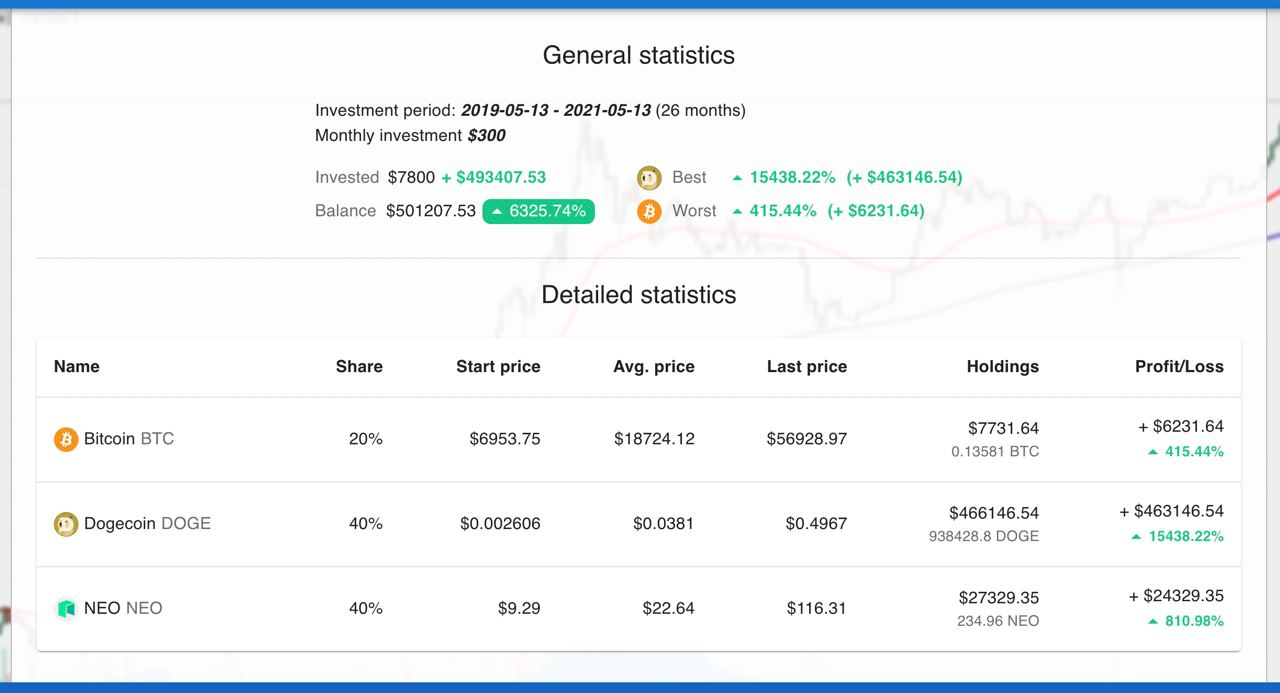
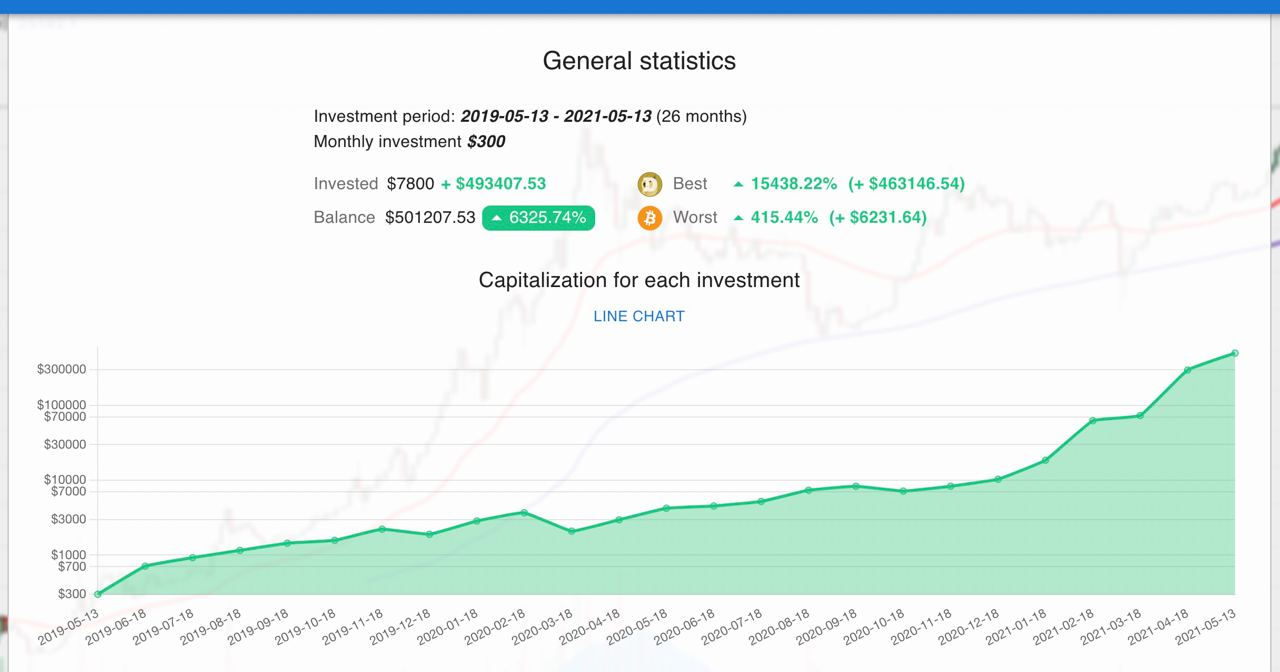
chartjs has been improved and code has been fixed

diff --git a/src/features/components/Chart.tsx b/src/features/components/Chart.tsx
@@ -1,0 +1,122 @@
+import { GET_LOSS_COLOR, GET_PROFIT_COLOR, LOSS_COLOR, PROFIT_COLOR } from '@cc/shared/const';
+import { Box, Button, Typography } from '@mui/material';
+import {
+  CategoryScale,
+  Chart as ChartJS,
+  Filler,
+  Legend,
+  LineElement,
+  LinearScale,
+  LogarithmicScale,
+  PointElement,
+  TimeSeriesScale,
+  Title,
+  Tooltip,
+  TooltipModel,
+} from 'chart.js';
+import 'chartjs-adapter-luxon';
+import { DateTime } from 'luxon';
+import { memo, useCallback, useState } from 'react';
+import { Line } from 'react-chartjs-2';
+import styles from '../styles/Chart.module.css';
+
+ChartJS.register(
+  LineElement,
+  CategoryScale,
+  LinearScale,
+  PointElement,
+  TimeSeriesScale,
+  LogarithmicScale,
+  Title,
+  Tooltip,
+  Legend,
+  Filler
+);
+
+interface IChartProps {
+  dollars: number[];
+  labels: number[];
+}
+
+export const Chart: React.FC<IChartProps> = memo(({ labels, dollars }) => {
+  const [isLogChart, setLogShart] = useState(false);
+
+  const firstBalance = dollars.at(0) || 0;
+  const lastBalance = dollars.at(-1) || 0;
+  const isPositiveBalance = firstBalance <= lastBalance;
+
+  const backgroundColor = isPositiveBalance ? GET_PROFIT_COLOR(0.4) : GET_LOSS_COLOR(0.4);
+  const lineColor = isPositiveBalance ? PROFIT_COLOR : LOSS_COLOR;
+
+  const onTooltipLabel = useCallback(function (this: TooltipModel<'line'>) {
+    const priceValue = this.dataPoints[0].formattedValue;
+
+    return `$${priceValue}`;
+  }, []);
+
+  const onClickButton = useCallback(() => {
+    setLogShart((prev) => !prev);
+  }, []);
+
+  return (
+    <>
+      <Box className={styles.headContainer}>
+        <Typography variant="h6" component="h2">
+          Capitalization for each investment
+        </Typography>
+
+        <Button variant="text" onClick={onClickButton}>{`${
+          isLogChart ? 'Line' : 'logarithmic'
+        } chart`}</Button>
+      </Box>
+
+      <Box width="100%">
+        <Line
+          height={300}
+          width="100%"
+          data={{
+            labels: labels.map((timestamp) =>
+              DateTime.fromMillis(timestamp).toFormat('yyyy-MM-dd')
+            ),
+            datasets: [
+              {
+                label: 'Total capitalization',
+                data: dollars,
+                tension: 0.1,
+                fill: true,
+                backgroundColor,
+                borderColor: lineColor,
+                hoverBackgroundColor: lineColor,
+                pointRadius: 3,
+                pointHoverBorderWidth: 5,
+              },
+            ],
+          }}
+          options={{
+            responsive: true,
+            maintainAspectRatio: false,
+            hover: { intersect: false, mode: 'nearest', axis: 'x' },
+            scales: {
+              x: { grid: { display: false } },
+              y: {
+                type: isLogChart ? 'logarithmic' : 'linear',
+                ticks: { callback: (value) => `$${value}` },
+              },
+            },
+            layout: { autoPadding: true },
+            plugins: {
+              tooltip: {
+                callbacks: { label: onTooltipLabel },
+                mode: 'nearest',
+                intersect: false,
+                axis: 'x',
+              },
+              colors: { enabled: true },
+              legend: { display: false },
+            },
+          }}
+        />
+      </Box>
+    </>
+  );
+});

diff --git a/src/entities/MainPage/components/ResultsDescription.tsx b/src/entities/MainPage/components/ResultsDescription.tsx
@@ -1,6 +1,7 @@
-import { Box, Chip, Container, Divider, Typography } from '@mui/material';
+import { Box, Chip, Divider, Typography } from '@mui/material';
 import LegacyImage from 'next/legacy/image';
 import step4Image from '../../../../public/main-page-images/step-4.jpg';
+import step5Image from '../../../../public/main-page-images/step-5.jpg';
 
 export const ResultsDescription = () => {
   return (
@@ -10,12 +11,29 @@ export const ResultsDescription = () => {
       </Divider>
 
       <Typography component="h2" variant="h6" textAlign="center" sx={{ mb: 2 }}>
-        Get your results
+        Get your general results
       </Typography>
 
       <LegacyImage
         src={step4Image}
         alt="Step-4"
+        objectFit="contain"
+        placeholder="blur"
[1 lines of base64/hex data omitted]
+        style={{ borderRadius: 8 }}
+      />
+
+      <Divider>
+        <Chip label="STEP 5" variant="outlined" size="medium" color="primary" component="h2" />
+      </Divider>
+
+      <Typography component="h2" variant="h6" textAlign="center" sx={{ mb: 2 }}>
+        Get your detailed results
+      </Typography>
+
+      <LegacyImage
+        src={step5Image}
+        alt="Step-5"
         objectFit="contain"
         placeholder="blur"
[1 lines of base64/hex data omitted]

diff --git a/pages/investment-statistics/index.tsx b/pages/investment-statistics/index.tsx
@@ -1,5 +1,5 @@
 import { PageLayout } from '@cc/app/components';
-import { DetailedInvestmentStatistics, GeneralInvestmentStatistics } from '@cc/features';
+import { Chart, DetailedInvestmentStatistics, GeneralInvestmentStatistics } from '@cc/features';
 import { RoutesTypes } from '@cc/shared/enums';
 import { useAppSelector, useAuthPage, useRedirectCondition } from '@cc/shared/lib';
 import globalStyles from '@cc/shared/styles/Index.module.css';
@@ -8,6 +8,12 @@ import Head from 'next/head';
 
 export default function InvestmentStatistics() {
   const hasProfitData = useAppSelector(({ profitReducer: { hasData } }) => hasData);
+  const monthlyCapitals = useAppSelector(
+    ({ profitReducer: { monthlyCapitals } }) => monthlyCapitals
+  );
+
+  const capitalsProfit = monthlyCapitals.map(({ capital }) => capital);
+  const capitalsDate = monthlyCapitals.map(({ date }) => date);
 
   useAuthPage({ redirectTo: RoutesTypes.MAIN });
   useRedirectCondition({ redirectTo: RoutesTypes.CALCULATE_YIELD, condition: !hasProfitData });
@@ -25,6 +31,10 @@ export default function InvestmentStatistics() {
         <Container maxWidth="lg" className={globalStyles.contentPageContainer}>
           <Box mb={3} display="flex" justifyContent="center">
             <GeneralInvestmentStatistics />
+          </Box>
+
+          <Box mb={3}>
+            <Chart dollars={capitalsProfit} labels={capitalsDate} />
           </Box>
 
           <Divider variant="fullWidth" style={{ marginBottom: 20 }} />

diff --git a/src/shared/lib/hooks/useRefreshRequest.ts b/src/shared/lib/hooks/useRefreshRequest.ts
@@ -11,6 +11,7 @@ export const useRefreshRequest = (
   inputError: FetchBaseQueryError | SerializedError | undefined,
   repeatedRequest: Function
 ) => {
+  const isAuth = useAppSelector(({ authReducer }) => authReducer.isAuth);
   const { logout, login } = useAuthContext();
   const refreshToken = useAppSelector((state) => state.authReducer.refreshToken);
   const [refreshTokens, { data, reset, isLoading, error }] = useRefreshTokensMutation();
@@ -34,11 +35,11 @@ export const useRefreshRequest = (
   }, [data, repeatedRequest]);
 
   useEffect(() => {
-    if (refreshErrorMessage.includes('Invalid refresh token')) {
+    if (refreshErrorMessage.includes('Invalid refresh token') && isAuth) {
       logout({ notifyUser: true, redirectTo: RoutesTypes.MAIN });
       reset();
     }
-  }, [refreshErrorMessage]);
+  }, [refreshErrorMessage, isAuth]);
 
   return { isLoading, errorMessage: inputErrorMessage || refreshErrorMessage };
 };

diff --git a/src/shared/lib/hooks/useErrorMessage.ts b/src/shared/lib/hooks/useErrorMessage.ts
@@ -17,7 +17,16 @@ export const useErrorMessage = (errorData?: FetchBaseQueryError | SerializedErro
       const { status, data } = errorData;
 
       if ((status === 200 || status === 400 || status === 401) && isIAPIResponseError(data)) {
-        message = data.errors[0].message;
+        const errorMessage = data.errors[0].message;
+
+        if (
+          !(
+            errorMessage.includes('Invalid access token') ||
+            errorMessage.includes('Invalid refresh token')
+          )
+        ) {
+          message = errorMessage;
+        }
       } else {
         message = 'Error sending data, please try again later.';
       }

diff --git a/src/shared/lib/store/reducers/ProfitSlice.ts b/src/shared/lib/store/reducers/ProfitSlice.ts
@@ -10,6 +10,7 @@ const initialState: ProfitSlice = {
   totalCapital: 0,
   totalGrowth: 0,
   coins: [],
+  monthlyCapitals: [],
 };
 
 export const profitSlice = createSlice({
@@ -25,6 +26,8 @@ export const profitSlice = createSlice({
       state.totalCapital = payload.totalCapital;
       state.totalGrowth = payload.totalGrowth;
       state.coins = payload.coins;
+      state.monthlyCapitals = payload.monthlyCapitals;
+
       state.hasData = true;
     },
   },

diff --git a/src/shared/types/api/calculator.api.ts b/src/shared/types/api/calculator.api.ts
@@ -1,4 +1,4 @@
-import { CalculateCoinProfitData, IMainCoinInfo } from '../calculator';
+import { CalculateCoinProfitData, IMainCoinInfo, IMonthlyCapital } from '../calculator';
 
 export interface IPeriodAndAmountRequest {
   monthlyInvestment: number;
@@ -28,4 +28,5 @@ export interface ICalculateProfitResponse {
   totalGrowth: number;
   totalInvested: number;
   investmentPeriod: number;
+  monthlyCapitals: IMonthlyCapital[];
 }

diff --git a/src/features/components/index.ts b/src/features/components/index.ts
@@ -2,6 +2,6 @@ export * from './DetailedInvestmentStatistics';
 export * from './EmailCode';
 export * from './GeneralInvestmentStatistics';
 export * from './PeriodAndAmount';
-export * from './PriceChart';
+export * from './Chart';
 export * from './SelectedInvestCoins';
 export * from './SendEmail';

diff --git a/src/shared/types/calculator/index.ts b/src/shared/types/calculator/index.ts
@@ -17,3 +17,8 @@ export interface ICoinProfitData {
 }
 
 export type CalculateCoinProfitData = ICoinProfitData & IMainCoinInfo;
+
+export interface IMonthlyCapital {
+  date: number;
+  capital: number;
+}

diff --git a/src/features/styles/Chart.module.css b/src/features/styles/Chart.module.css
@@ -1,0 +1,5 @@
+.headContainer {
+  display: flex;
+  flex-direction: column;
+  align-items: center;
+}
